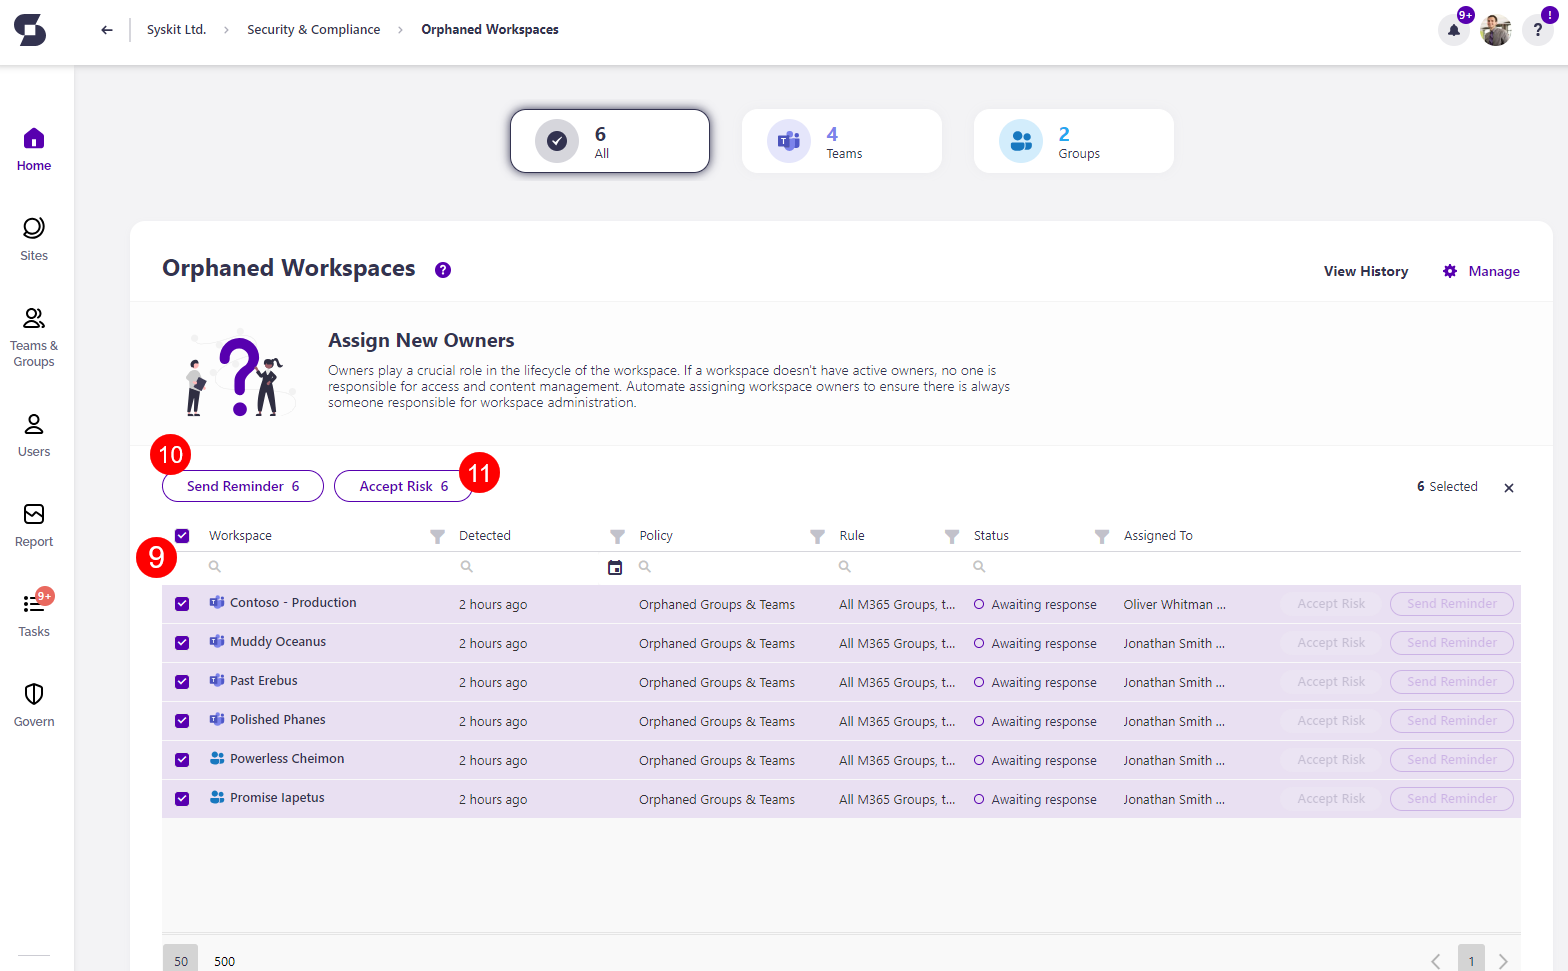
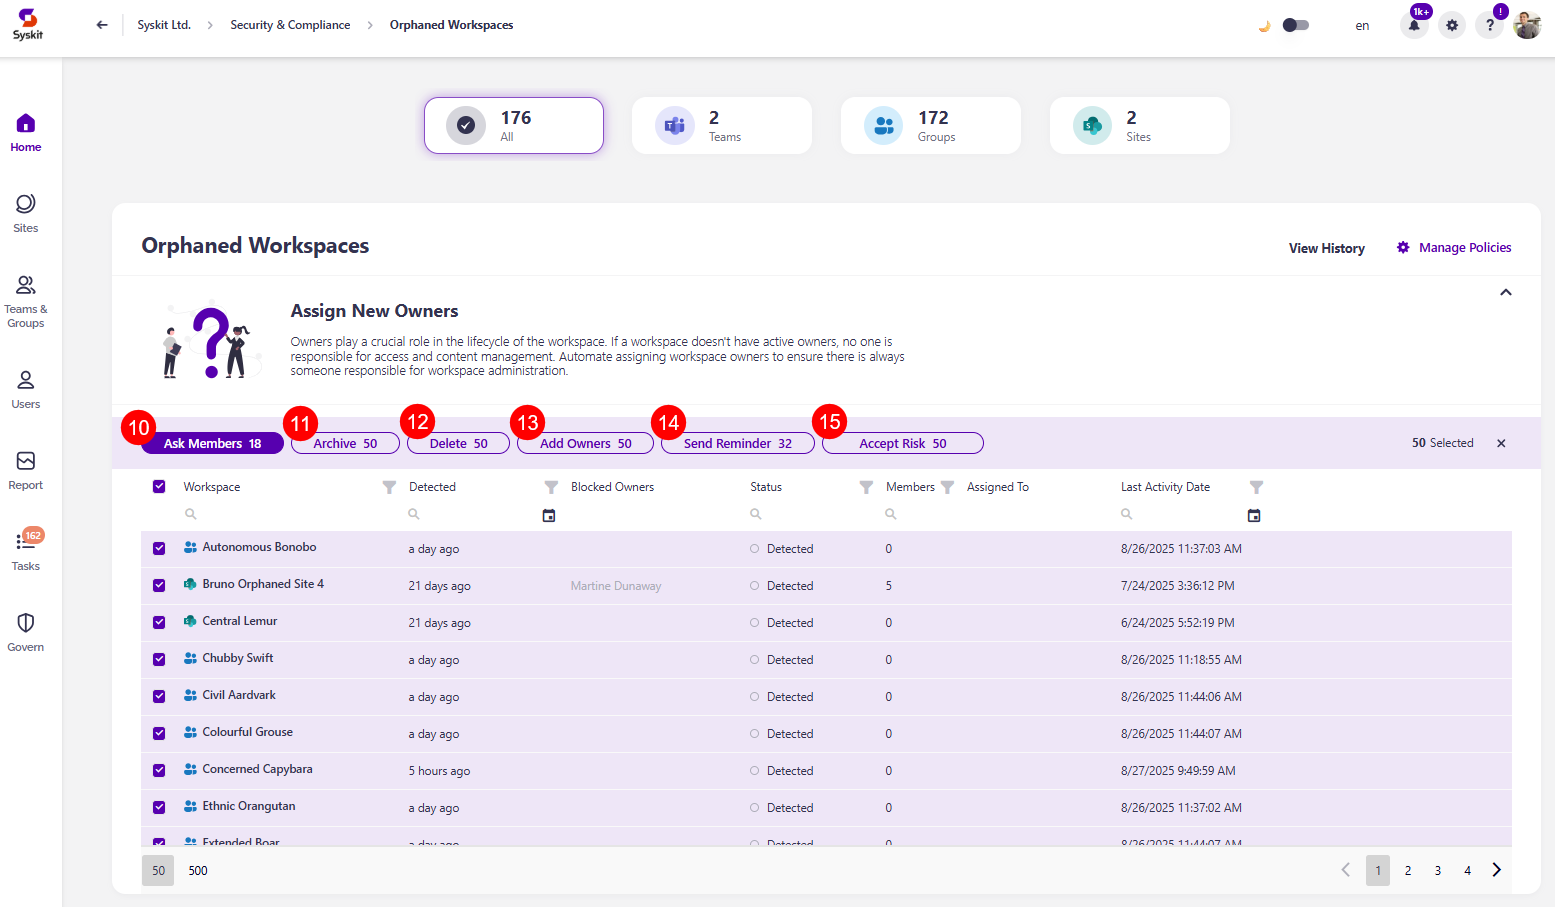
orphanes workspaces site update

diff --git a/reporting/cleanup-and-health-reports.md b/reporting/cleanup-and-health-reports.md
@@ -12,10 +12,10 @@ In this article, you can locate information on:
 * [Orphaned Workspaces](#orphaned-workspaces)
 
 
-Use Orphaned Users and Orphaned Workspaces reports to **detect and manage orphaned users and workspaces**.
+Use the Orphaned Users and Orphaned Workspaces reports to **detect and manage orphaned users and workspaces**.
 
 {% hint style="information" %}
-**Please note!**  
+**Please note!**  
 You can save custom views for your reports based on your needs and preferences. [For more details on this, take a look at the Save Custom Views article.](../configuration/custom-views.md)
 {% endhint %}
 
@@ -24,27 +24,27 @@ You can save custom views for your reports based on your needs and preferences. 
 The Orphaned Users report displays all orphaned users in your tenant environment. 
 
 Orphaned users are **all the users that have been blocked or deleted from Microsoft Entra ID** and:
-  * Have access to workspace content, or
-  * Had access to workspace content and visited the SharePoint site containing that content but lost access in the meantime
-  * [For more details on Orphaned Users in Syskit Point, take a look at the FAQ article.](../faq/orphaned-users.md)
+* Have access to workspace content, or
+* Had access to workspace content and visited the SharePoint site containing that content, but lost access in the meantime
+* [For more details on Orphaned Users in Syskit Point, take a look at the FAQ article.](../faq/orphaned-users.md)
 
 This report helps detect and remove blocked/disabled or deleted users from your Microsoft 365 workspaces.
 
 ### Generate Orphaned Users Report
 
- * **Click the Reports button** located on the left side of the screen.
- * **Select Cleanup & Health Check in the filter**; it can be found in the upper left corner.
- * **Click the Orphaned Users report** to generate the report.
+* **Click the Reports button** located on the left side of the screen.
+* **Select Cleanup & Health Check in the filter**; it can be found in the upper left corner.
+* **Click the Orphaned Users report** to generate the report.
 
 
 ### Report Data
 
 Once the report is successfully generated, the following data will be displayed in the columns:
 
-* **User**; the name of the user that is orphaned. 
-   * When clicked, the User Details page of the selected user is opened.
+* **User**; the name of the orphaned user. 
+  * When clicked, the User Details page of the selected user is opened.
 * **Site**; the name of the workspace where said user is a member. 
-   * When clicked, the page will be redirected to the Site Details screen of the selected workspace.
+  * When clicked, the page will be redirected to the Site Details screen of the selected workspace.
 * **Status**; defines whether the user was deleted or disabled in Microsoft Entra ID.
 * **Department**; shows which department in the company the Orphaned User operated in. 
   * Only if that data is available from Microsoft Entra ID. 
@@ -57,43 +57,47 @@ For more details, there are also additional columns available in the column choo
 * **Username**; shows the Microsoft 365 tenant username for the orphaned user.
 
 To group the report results by one or multiple columns, drag a column header to the designated place in the upper left corner of the report. 
-  * Doing that provides a clearer view of where the orphaned user is still a member.
+  * Doing that provides a clearer view of where the orphaned user is still a member.
 
-By selecting the checkbox of an orphaned user, you can perform the **Remove User** action and see the additional information, like who blocked it and when was the selected user blocked.
+By selecting the checkbox of an orphaned user, you can perform the **Remove User** action and see the additional information, like who blocked it and when the selected user was blocked.
 
 The Orphaned Users report can be **exported as PDF and XLSX files**. There is also the **option to schedule the report**.
 
 ## Orphaned Workspaces
 
-The Orphaned Workspaces report displays all the SharePoint Sites, Microsoft Teams, or Microsoft 365 groups in your tenant that don't have an active owner or administrator.
+The Orphaned Workspaces report displays all the SharePoint Sites, Microsoft Teams, or Microsoft 365 Groups in your tenant without an active owner or administrator.
 
-  * The last owner of those workspaces is either deleted or blocked in Microsoft Entra ID. 
+* The last owner of those workspaces is either deleted or blocked in Microsoft Entra ID. 
 
 This report helps manage Microsoft 365 workspaces' health and helps ensure there are no abandoned workspaces in your tenant.
 
 
 ### Generate Orphaned Workspaces Report
 
- * **Click the Reports button** located on the left side of the screen.
- * **Select Cleanup & Health Check in the filter**; it can be found in the upper left corner.
- * **Click the Orphaned Workspaces report** to generate the report.
+* **Click the Reports button** located on the left side of the screen.
+* **Select Cleanup & Health Check in the filter**; it can be found in the upper left corner.
+* **Click the Orphaned Workspaces report** to generate the report.
 
 ### Report Data
 Once the report is successfully generated, the following data will be displayed in the columns:
 
-* **Name**; the name of the workspace that is orphaned.
-* **Blocked Admins**; shows the orphaned user who was the workspace owner.
-* **Users**; shows the current number of members in the orphaned workspace.
+* **Workspace**; the name of the workspace that is orphaned.
+* **Blocked Owners**; shows the orphaned user who was the workspace owner.
+* **Members**; shows the current number of members in the orphaned workspace.
+* **Last Activity Date**; shows the date of the last time an activity was detected on the workspace
 
 There are also additional columns in the column chooser:
 
-* **Site Type**; defines the workspace, whether it was a SharePoint Site, Microsoft Team, Microsoft 365 Group
+* **Detected**; shows when the Orphaned Workspaces policy vulnerability was detected
+* **Site Type**; defines the workspace, whether it was a SharePoint Site, Microsoft Team, or Microsoft 365 Group
 * **URL**; direct link to the selected workspace on the Microsoft 365 tenant.
 
+Selecting one or multiple workspaces on the report lets you perform the following actions:
+* **Add owners** - clicking this opens the confirmation modal where you can add new users as owners for the workspace
+* **Archive** - clicking this archives the workspace
+* **Delete** - clicking this deletes the workspace 
+ 
 
-**Change the owner** of the selected workspace by removing the orphaned user and promoting an active user to be the owner of the selected workspace. 
-  * This can be done by selecting a row on the report. 
-
-After executing that action, the selected workspace **will no longer be visible on the Orphaned Workspaces** report.
+After executing any of the above actions, the selected workspace **is no longer be visible on the Orphaned Workspaces** report.
 
 The Orphaned Workspaces report can be **exported as PDF and XLSX files**. There is also the **option to schedule the report**.

diff --git a/governance-and-automation/security-compliance-checks/orphaned-workspaces.md b/governance-and-automation/security-compliance-checks/orphaned-workspaces.md
@@ -2,14 +2,13 @@
 description: This article provides information on the Orphaned Workspaces report.
 ---
 
-
 # Orphaned Workspaces
 
 Syskit Point detects workspaces that don't have active owners, which helps you ensure there is always someone responsible for access and content management for your workspaces. 
 
 When the task delegation option is enabled for the Orphaned Workspaces policy, Syskit Point creates tasks and sends emails to users as defined in the policy settings. To learn more, take a look at the [Orphaned Workspaces policy article](../../governance-and-automation/automated-workflows/orphaned-resources-admin.md). 
 
-By default, task delegation is turned off for this policy, but the orphaned workspaces **are still detected** and visible on the Security and Compliance dashboard. **This means that Syskit Point detects a vulnerability on a workspace** based on the applied policy, but it does not create tasks or send any emails to workspace owners. 
+By default, task delegation is turned off for this policy, but the orphaned workspaces **are still detected** and visible on the Security and Compliance dashboard. **This means that Syskit Point detects a vulnerability in a workspace** based on the applied policy, but it does not create tasks or send any emails to workspace owners. 
 
 The purpose of this is to assist Syskit Point admins by
 bringing awareness of potential issues in their Microsoft 365 environment. 
@@ -19,27 +18,33 @@ On the Security & Compliance dashboard, click the **Orphaned Workspaces** button
 The Orphaned Workspaces screen opens, showing a list of all **workspaces that don't have active owners**.
 
 Above the report, you can see the number of:
- * All workspaces with a policy vulnerability
- * Microsoft Teams with a policy vulnerability
- * Microsoft Groups with a policy vulnerability
+* All workspaces with a policy vulnerability
+* Microsoft Teams with a policy vulnerability
+* Microsoft Groups with a policy vulnerability
+* SharePoint Sites with a policy vulnerability
 
 The report itself provides information on:
-  * **Workspace (1)** name
-  * **Detected (2)** - when the policy vulnerability was detected
-  * **Policy (3)** - the policy assigned to the workspace
-  * **Rule (4)** - for the policy applied
-  * **Status (5)** - status of the policy vulnerability
-    * If a vulnerability was detected, the status shows as *Detected*
-    * If task delegation is enabled for the policy, it shows the task status, for example *Awaiting response* from members
-  * **Assigned to (6)** - who the policy vulnerability is assigned to for a resolution
+* **Workspace (1)** name
+* **Detected (2)** - when the policy vulnerability was detected
+* **Blocked Owners (3)** - the names of workspace owners that have been blocked
+* **Status (4)** - status of the policy vulnerability
+  * If a vulnerability was detected, the status shows as *Detected*
+  * If task delegation is enabled for the policy, it shows the task status, for example, *Awaiting response* from members
+* **Members (5)** - the number of members in the workspace
+* **Assigned to (6)** - who the policy vulnerability is assigned to for a resolution
+* **Last Activity Date (7)** - the date and time of the last time there was an activity logged on the workspace
 
 Additionally, you can complete the following actions for the policy vulnerability:
-  * **Accept risk (7)** - this means you will close the policy vulnerability task without making any changes to the current state of the workspace
-  * **Send reminder (8)** - this sends a reminder to the person responsible for resolving this task
+* **Ask Members (8)** - this action requests that the workspace members select new workspace owners
+* **The Ellipsis (more options) Menu (9)** - clicking the 3 dots next to the Ask Members button provides the option to complete the following actions:
+  * **Archive** - this action archives the workspaces
+  * **Delete** - this action deletes the workspace
+  * **Add Owners** - this action lets you manually add additional owners to the workspace to resolve the task yourself
+  * **Accept Risk** - this action means you will close the policy vulnerability task without making any changes to the current state of the workspace
 
 If the the task delegation is not enabled in policy settings, instead of sending a reminder you will have the option to **Ask Owners**. This will send emails and create tasks for users responsible for resolving the task.
 
-By **selecting all (9)** or more than one workspace, you can perform the bulk action for **Send reminder (10)** and **Accept risk (11)**. 
+By **selecting all (10)** or more than one workspace, you can perform the bulk action for **Archive (11)**, **Delete (12)**, **Add Owners (13)**, **Send reminder (14)**, and **Accept risk (15)**. 
 
 
 ![Orphaned Workspaces](../../.gitbook/assets/security-compliance-checks-orphaned-workspaces.png)
@@ -48,16 +53,27 @@ By **selecting all (9)** or more than one workspace, you can perform the bulk ac
 
 
 To get more details on a specific workspace, **click the name of the workspace on the report**.
-  * This opens the screen that shows more details about the workspace
+* This opens the screen that shows more details about the workspace
 
 Here you can find the following information: 
- * **Severity level (1)**
- * **Vulnerability (2)**
- * **Detected (3)**
- * **Policy Type (4)**
- * **Rule (5)**
- * **Category (6)**
+* **Severity level (1)**
+* **Vulnerability (2)**
+* **Detected (3)**
+* **Policy Type (4)**
+* **Rule (5)**
+* **Category (6)**
 
  You can also perform the actions to **Accept Risk (7)** and **Add Owners (8)**. 
 
 ![Orphaned Workspaces - More Details](../../.gitbook/assets/security-compliance-checks-orphaned-workspaces-details.png)
+
+
+{% hint style="info" %}
+
+**Please note:**
+* **Nested group members are counted** when resolving a policy.
+  * If the required number of members has not been added or removed, including those within nested groups, the Resolve button remains disabled until that condition is met.
+* **Site Owners are determined by the SharePoint Owners group.**
+  * Only users who are part of the SharePoint Owners group are considered Site Owners and can resolve tasks. **Site Admins cannot resolve tasks** and are not considered Site Owners.
+
+{% endhint %}

diff --git a/governance-and-automation/automated-workflows/orphaned-resources-admin.md b/governance-and-automation/automated-workflows/orphaned-resources-admin.md
@@ -6,31 +6,43 @@ description: This article explains how to set up the Orphaned Workspaces policy 
 
 Syskit Point detects **workspaces that don't have active owners**, which helps you ensure there is always someone responsible for access and content management for your workspaces. 
 
+{% hint style="warning" %}
+**Please note!** 
+The default Orphaned Workspaces policy now also applies to SharePoint Sites. 
+You can expect to see the changes after the next AutoDiscover sync following the upgrade to the latest Point version.
+Custom Orphaned Workspaces policies created by Syskit Point admins can also be applied to SharePoint sites using Rules or manually.
+{% endhint %}
+
 A predefined policy - **Orphaned Workspaces** - can be found on the Policies screen. 
 
 Click the **Edit (1)** icon to view all defined options for the policy. 
 
 ![Orphaned Workspaces - Edit Policy](../../.gitbook/assets/set-up-automated-workflows-orphaned-edit.png)
 
-The **Edit Policy** dialog opens where you can:
+The **Edit Policy** dialog opens, where you can:
 * **Define the policy name (1)**
 * **Choose the severity level (2)**; this option is enabled by default
 * **Enable Task Delegation (3)** by clicking the toggle next to it and selecting your task delegation preferences:
   * **Select between the 3 available processes (4)**:
-     * **Ask Specific Users to Assign New Owners**; this is a **1-stage process**, where selected users - Syskit Point Administrators and/or custom recipients - **get a task to assign new owners**
-     * **Ask Members to Suggest New Owners**; this is a **2-stage process**, where members can suggest new owners, and afterward, the selected users - Syskit Point Administrators and/or custom recipients - **get a task to resolve the task base on the suggestions from owners**; by default, this option is selected
-     * **Automatically Assign New Owners**; if selected, Syskit Point **automatically assigns the last owner's manager as a new owner**
-       * If the manager cannot be found, Syskit Point escalates the task to the user you defined when creating the policy
- * Click **Save (5)** once you are done with the policy configuration 
+    * **Ask Specific Users to Assign New Owners**; this is a **1-stage process**, where selected users - Syskit Point Administrators and/or custom recipients - **get a task to assign new owners**
+    * **Ask Members to Suggest New Owners**; this is a **2-stage process**, where members can suggest new owners, and afterward, the selected users - Syskit Point Administrators and/or custom recipients - **get a task to resolve the task based on the suggestions from owners**; by default, this option is selected
+    * **Automatically Assign New Owners**; if selected, Syskit Point **automatically assigns the last owner's manager as a new owner**
+      * If the manager cannot be found, Syskit Point escalates the task to the user you defined when creating the policy
+* Click **Save (5)** once you are done with the policy configuration 
 
 ![Edit Policy Dialog](../../.gitbook/assets/set-up-automated-workflows-orphaned-dialog.png)
 
 
 {% hint style="info" %}
 
-**Please note:** The Orphaned Workspaces policy vulnerability is detected when there are 0 active owners assigned to a workspace. 
+**Please note the following:** 
+* **The Orphaned Workspaces policy vulnerability is detected when there are 0 active owners assigned to a workspace.** 
+  * If 1 owner is assigned to a workspace when resolving the Orphaned Workspaces vulnerability, Syskit Point will detect the [Minimum Number of Owners policy](../../point-collaborators/resolve-governance-tasks/minimum-number-of-owners.md) vulnerability, as the default requirement is to have at least 2 owners per workspace. 
 
-If 1 owner is assigned to a workspace when resolving the Orphaned Workspaces vulnerability, Syskit Point will detect the [Minimum Number of Owners policy](../../point-collaborators/resolve-governance-tasks/minimum-number-of-owners.md) vulnerability, as the default requirement is to have at least 2 owners per workspace. 
+* **Nested group members are counted** when resolving a policy.
+  * If the required number of members, including those within nested groups, has not been added or removed, the Resolve button remains disabled until that condition is met.
+* **Site Owners are determined by the SharePoint Owners group.**
+  * Only users in the SharePoint Owners group are considered Site Owners and can resolve tasks. **Site Admins cannot resolve tasks** and are not considered Site Owners.
 
 {% endhint %}
 
@@ -40,6 +52,7 @@ For details on how collaborators can [**resolve Orphanes Workspaces policy vulne
 **Please note**, this policy can be applied to the following workspaces:
 * **Microsoft Teams**
 * **Microsoft 365 Group**
+* **SharePoint Sites**
 * **Yammer Community**
 
 {% endhint %}
